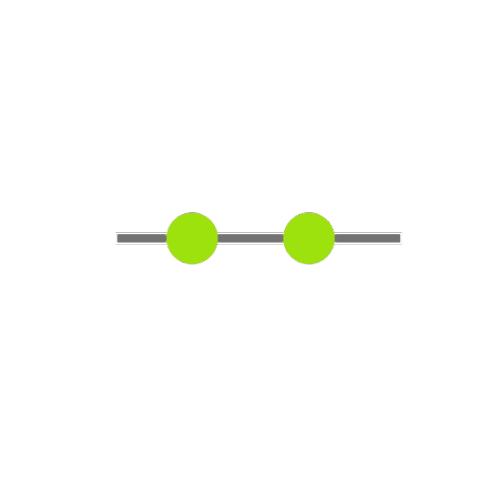
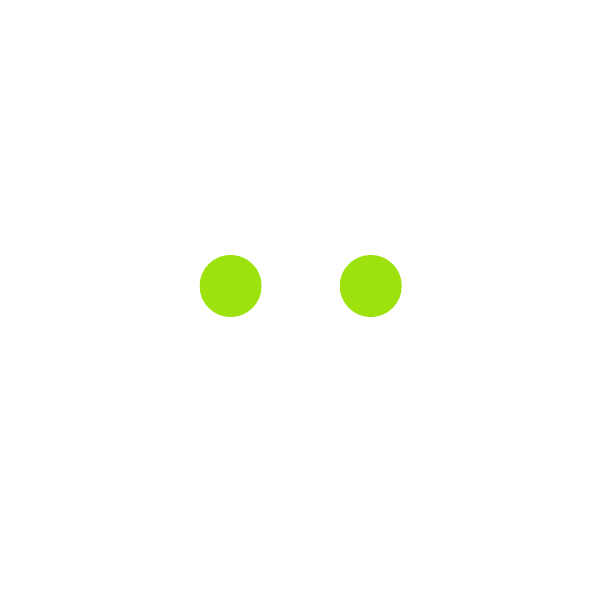
added new junction 2.0

Changed region(s): [[0.66, 0.45, 0.81, 0.51], [0.42, 0.45, 0.57, 0.51], [0.24, 0.45, 0.36, 0.51]]

diff --git a/frontend/src/components/Simulation.jsx b/frontend/src/components/Simulation.jsx
@@ -1,5 +1,5 @@
 import { useRef, useEffect, useState } from 'react';
-import grassSrc from "../assets/junction2.png";
+import grassSrc from "../assets/finale.png";
 import carSrc from "../assets/car1.png";
 import redLightSrc from "../assets/red-light.png"; // Import traffic light
 import Car from '../entities/Car';
@@ -80,10 +80,10 @@ const Simulation = () => {
       const lightHeight = 100;
       
       const trafficLightPositions = [
-        { x: backgroundRef.current.width / 2 - 20, y: 196, rotate: false }, // Top
-        { x: backgroundRef.current.width / 2 - 80, y: backgroundRef.current.height - 290, rotate: false }, // Bottom
-        { x: 217, y: backgroundRef.current.height / 2 - 102, rotate: true }, // Left
-        { x: backgroundRef.current.width - 270, y: backgroundRef.current.height / 2 - 40, rotate: true } // Right
+        { x: backgroundRef.current.width / 2 - 8, y: 195, rotate: false }, // Top
+        { x: backgroundRef.current.width / 2 - 73, y: backgroundRef.current.height - 288, rotate: false }, // Bottom
+        { x: 215, y: backgroundRef.current.height / 2 - 100, rotate: true }, // Left
+        { x: backgroundRef.current.width - 268, y: backgroundRef.current.height / 2 - 36, rotate: true } // Right
       ];
 
       trafficLightPositions.forEach(({ x, y, rotate }) => {
@@ -96,7 +96,7 @@ const Simulation = () => {
             redLightImageRef.current,
             -lightWidth / 2,
             -lightHeight / 2,
-            lightWidth + 45,
+            lightWidth + 35,
             lightHeight
           );
         } else {
@@ -104,7 +104,7 @@ const Simulation = () => {
             redLightImageRef.current,
             x,
             y,
-            lightWidth + 45,
+            lightWidth + 30,
             lightHeight
           );
         }
